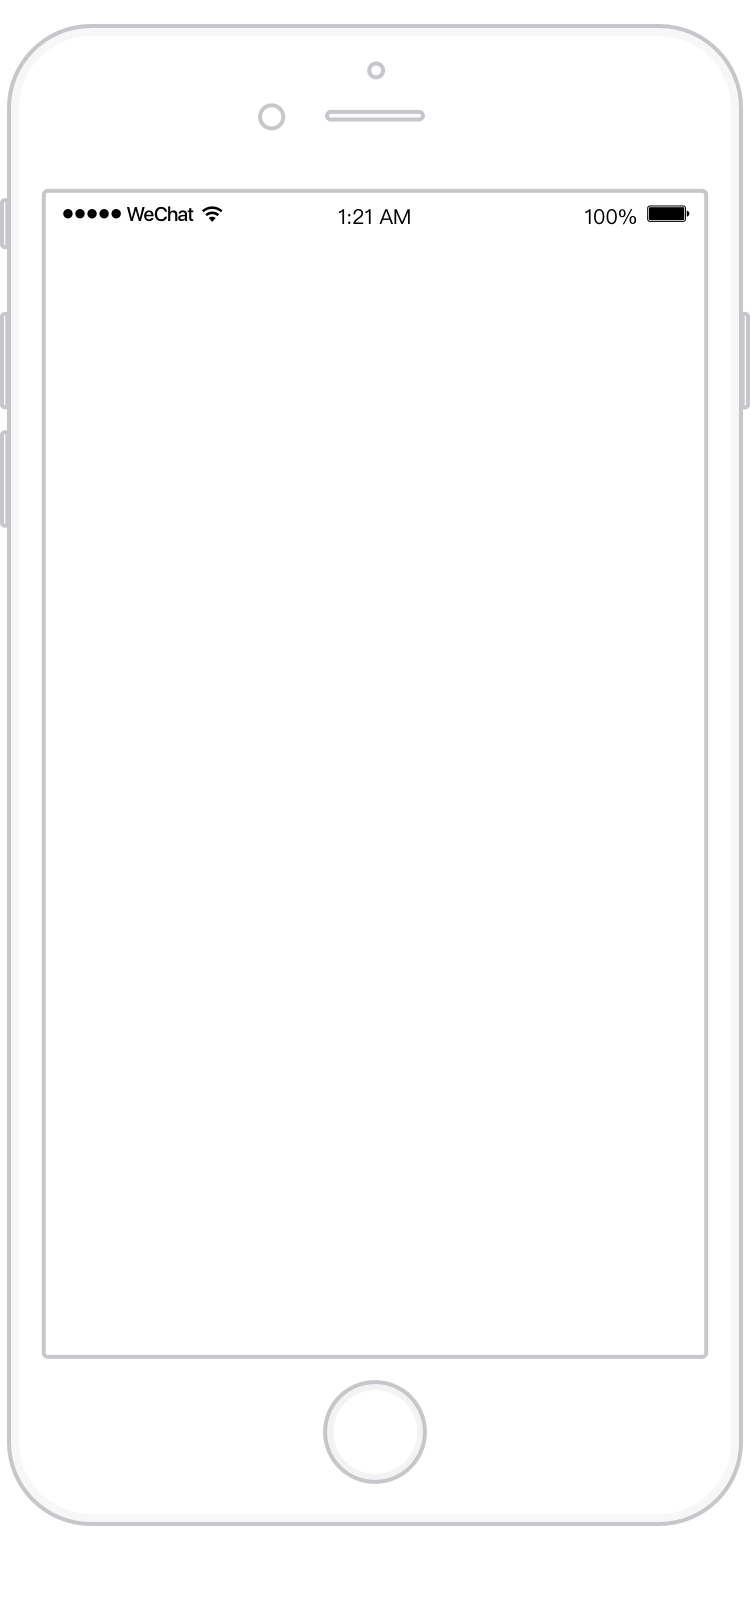
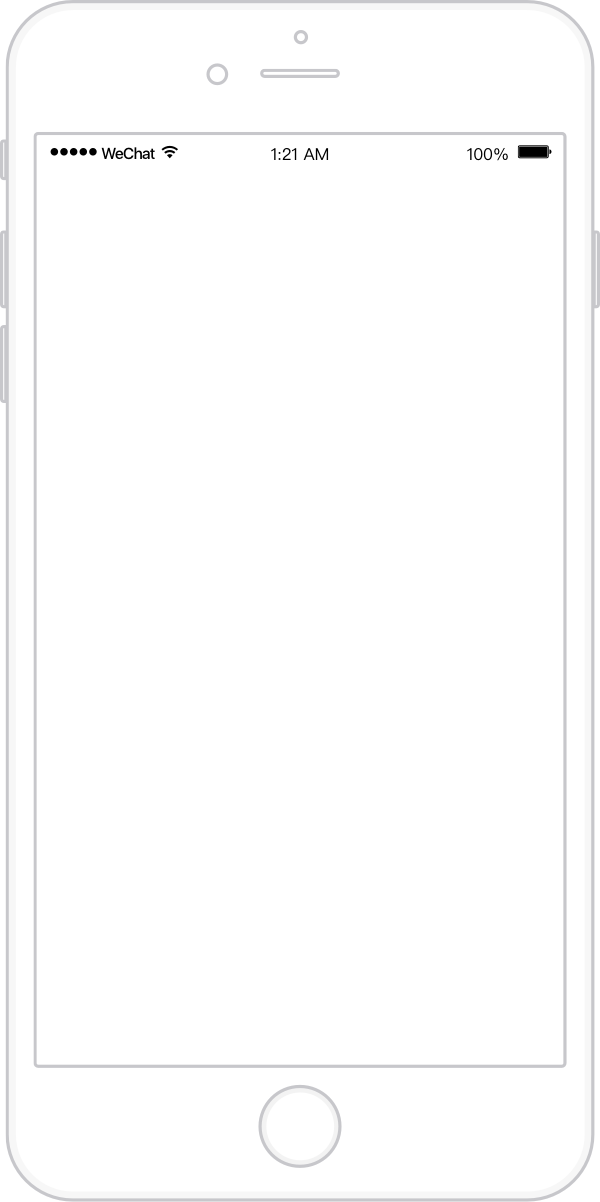
yansghi

diff --git a/src/pages/article-add/phone-box/phone-box.vue b/src/pages/article-add/phone-box/phone-box.vue
@@ -165,28 +165,28 @@
 
   // 结构布局
   .phone-box
-    margin: 0 76px 0 71px
+    margin: 0 60px 0 60px
     box-sizing: border-box
     display: flex
     justify-content: center
-    width: 340px
+    width: 300px
 
     .phone
       position: fixed
       z-index: 200
-      top: 13%
+      top: 20%
       left: 320px
       icon-image('pic-tel')
-      width: 340px
-      height: 726.24px
+      width: 300px
+      height: 601px
 
       .content-box
         box-sizing: border-box
-        top: 111px
-        left: 21px
+        top: 86px
+        left:19px
         position: absolute
-        width: 303px
-        height: 503px
+        width: 268px
+        height: 446px
         overflow: hidden
 
         &.empty-type-video
@@ -373,7 +373,7 @@
       .bottom-operate
         position absolute
         bottom 0px
-        right: 0
+        right: 6px
         left: 0
         background white
         box-shadow: 0 -4px 20px 0 rgba(29, 32, 35, 0.06)

diff --git a/src/pages/article-add/article-add.vue b/src/pages/article-add/article-add.vue
@@ -392,7 +392,7 @@
       this._getArticleCategory()
       this.currentType = query.type
       this.id = query.id || ''
-      this.isDisabled = query.isSee || false
+      this.isDisabled = Boolean(query.isSee) || false
       if (this.id) {
         this.$route.meta.params && this.changeDetialData(this.$route.meta.params)
       } else {
@@ -864,6 +864,7 @@
         position: relative
         object-fit: cover
         background-color $color-np-content
+
         .delete-icon
           position: absolute
           top: 0
@@ -987,6 +988,7 @@
           height: 140px
           position relative
           margin-bottom: 20px
+
           .content-video
           .content-image
             width: 112px
@@ -995,6 +997,7 @@
             background-color $color-np-content
             object-fit: cover
             margin: 14px
+
           .edit-textarea
             border-width: 0px
             padding: 14px
